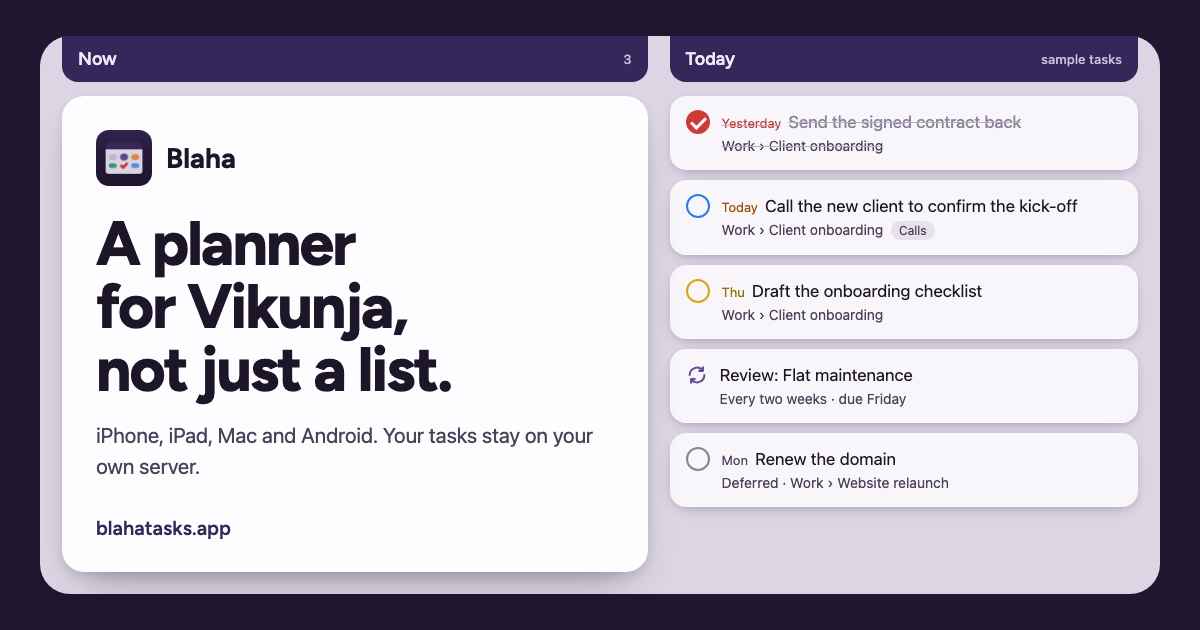
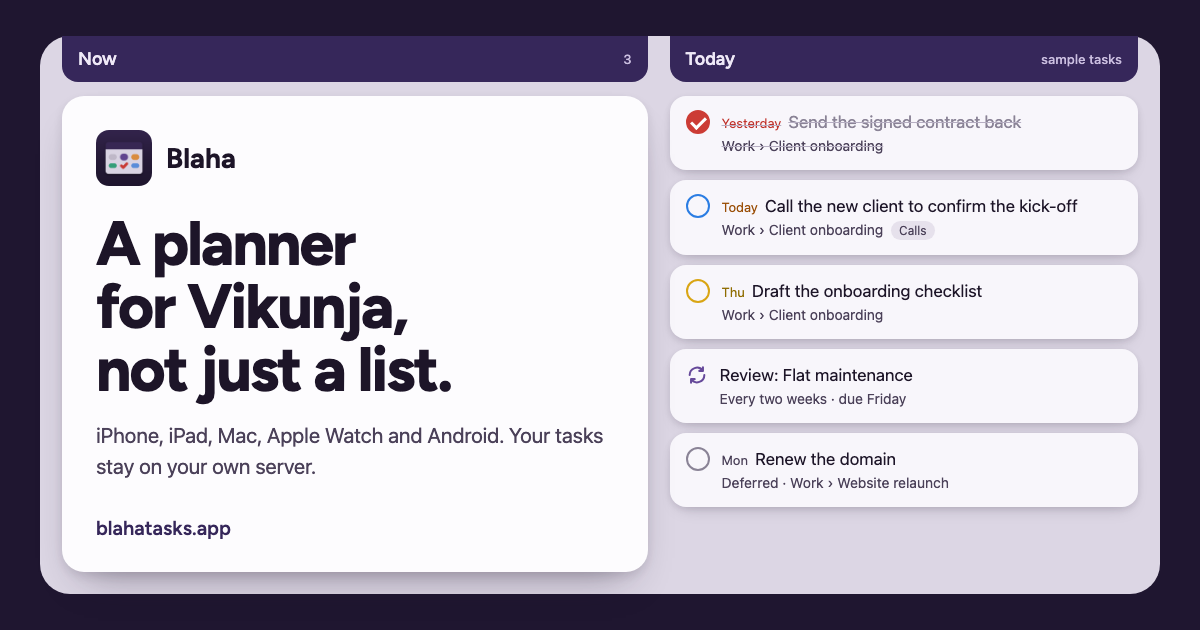
Apple Watch in the title, descriptions, app data (watchOS 10) and link preview

Changed region(s): [[0.0617, 0.6635, 0.4933, 0.754]]

diff --git a/index.html b/index.html
@@ -3,15 +3,15 @@
 <head>
 <meta charset="utf-8">
 <meta name="viewport" content="width=device-width, initial-scale=1">
-<title>Blaha — Vikunja app for iPhone, iPad, Mac and Android</title>
-<meta name="description" content="Defer dates, review cycles and perspectives of your own, for Vikunja — the open-source to-do server you run yourself. iPhone, iPad, Mac and Android.">
+<title>Blaha — Vikunja app for iPhone, iPad, Mac, Apple Watch and Android</title>
+<meta name="description" content="Defer dates, review cycles and perspectives of your own, for Vikunja — the open-source to-do server you run yourself. iPhone, iPad, Mac, Apple Watch and Android.">
 <link rel="icon" href="favicon-32.png" sizes="32x32">
 <link rel="apple-touch-icon" href="apple-touch-icon.png">
 <meta name="theme-color" content="#36275a">
 <meta property="og:type" content="website">
 <meta property="og:site_name" content="Blaha">
-<meta property="og:title" content="Blaha — Vikunja app for iPhone, iPad, Mac and Android">
-<meta property="og:description" content="Defer dates, review cycles and perspectives of your own, for Vikunja — the open-source to-do server you run yourself. iPhone, iPad, Mac and Android.">
+<meta property="og:title" content="Blaha — Vikunja app for iPhone, iPad, Mac, Apple Watch and Android">
+<meta property="og:description" content="Defer dates, review cycles and perspectives of your own, for Vikunja — the open-source to-do server you run yourself. iPhone, iPad, Mac, Apple Watch and Android.">
 <link rel="canonical" href="https://blahatasks.app/">
 <meta property="og:url" content="https://blahatasks.app/">
 <meta property="og:image" content="https://blahatasks.app/og.png">
@@ -46,7 +46,7 @@
    "url": "https://blahatasks.app/",
    "description": "A planner for Vikunja, not just a list: defer dates, review cycles and perspectives of your own. Your tasks stay on your own server.",
    "applicationCategory": "ProductivityApplication",
-   "operatingSystem": "iOS 17 or later, iPadOS 17 or later, macOS 14 or later, Android 8.0 or later",
+   "operatingSystem": "iOS 17 or later, iPadOS 17 or later, macOS 14 or later, watchOS 10 or later, Android 8.0 or later",
    "image": "https://blahatasks.app/icon-512.png",
    "publisher": {
     "@id": "https://blahatasks.app/#org"

diff --git a/eula.html b/eula.html
@@ -4,14 +4,14 @@
 <meta charset="utf-8">
 <meta name="viewport" content="width=device-width, initial-scale=1">
 <title>Licence agreement — Blaha</title>
-<meta name="description" content="The end-user licence agreement for Blaha on iPhone, iPad, Mac and Android: what you may do with the app, what you may not, and who stands behind it.">
+<meta name="description" content="The end-user licence agreement for Blaha on iPhone, iPad, Mac, Apple Watch and Android: what you may do with the app, what you may not, and who stands behind it.">
 <link rel="icon" href="favicon-32.png" sizes="32x32">
 <link rel="apple-touch-icon" href="apple-touch-icon.png">
 <meta name="theme-color" content="#251137">
 <meta property="og:type" content="website">
 <meta property="og:site_name" content="Blaha">
 <meta property="og:title" content="Licence agreement — Blaha">
-<meta property="og:description" content="The end-user licence agreement for Blaha on iPhone, iPad, Mac and Android: what you may do with the app, what you may not, and who stands behind it.">
+<meta property="og:description" content="The end-user licence agreement for Blaha on iPhone, iPad, Mac, Apple Watch and Android: what you may do with the app, what you may not, and who stands behind it.">
 <link rel="canonical" href="https://blahatasks.app/eula.html">
 <meta property="og:url" content="https://blahatasks.app/eula.html">
 <meta property="og:image" content="https://blahatasks.app/og.png">

diff --git a/.impeccable/og/og.html b/.impeccable/og/og.html
@@ -22,7 +22,7 @@ html,body{margin:0;width:1200px;height:630px;overflow:hidden;background:var(--gr
     <div class="offer">
       <div class="brand"><img src="../../icon-512.png" alt="">Blaha</div>
       <h1>A planner for Vikunja, not just a list.</h1>
-      <p class="lede">iPhone, iPad, Mac and Android. Your tasks stay on your own server.</p>
+      <p class="lede">iPhone, iPad, Mac, Apple Watch and Android. Your tasks stay on your own server.</p>
       <p class="url">blahatasks.app</p>
     </div>
   </div>
